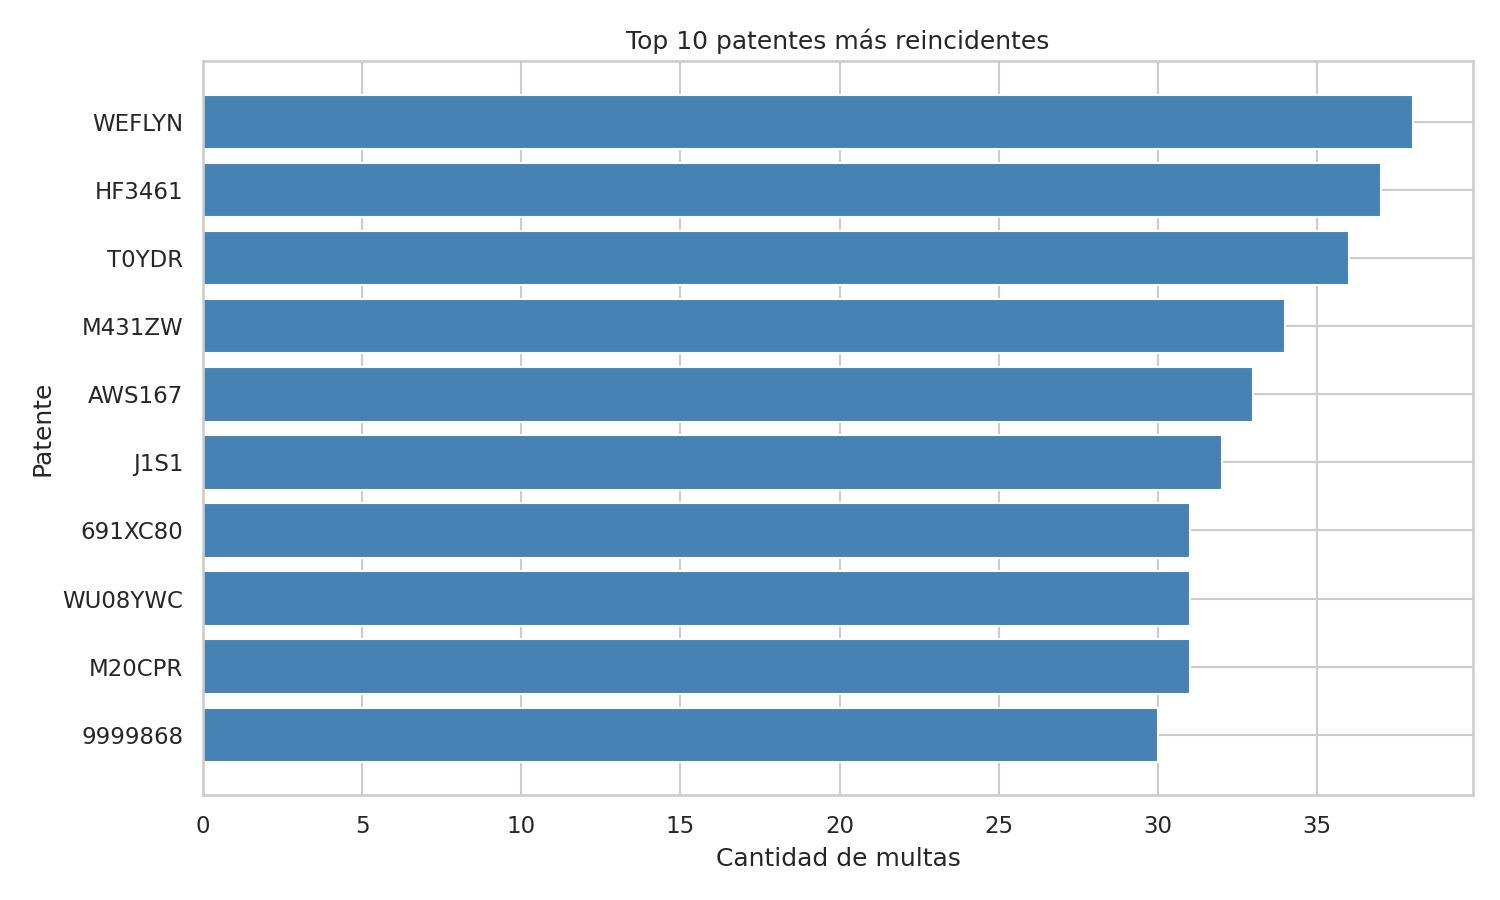
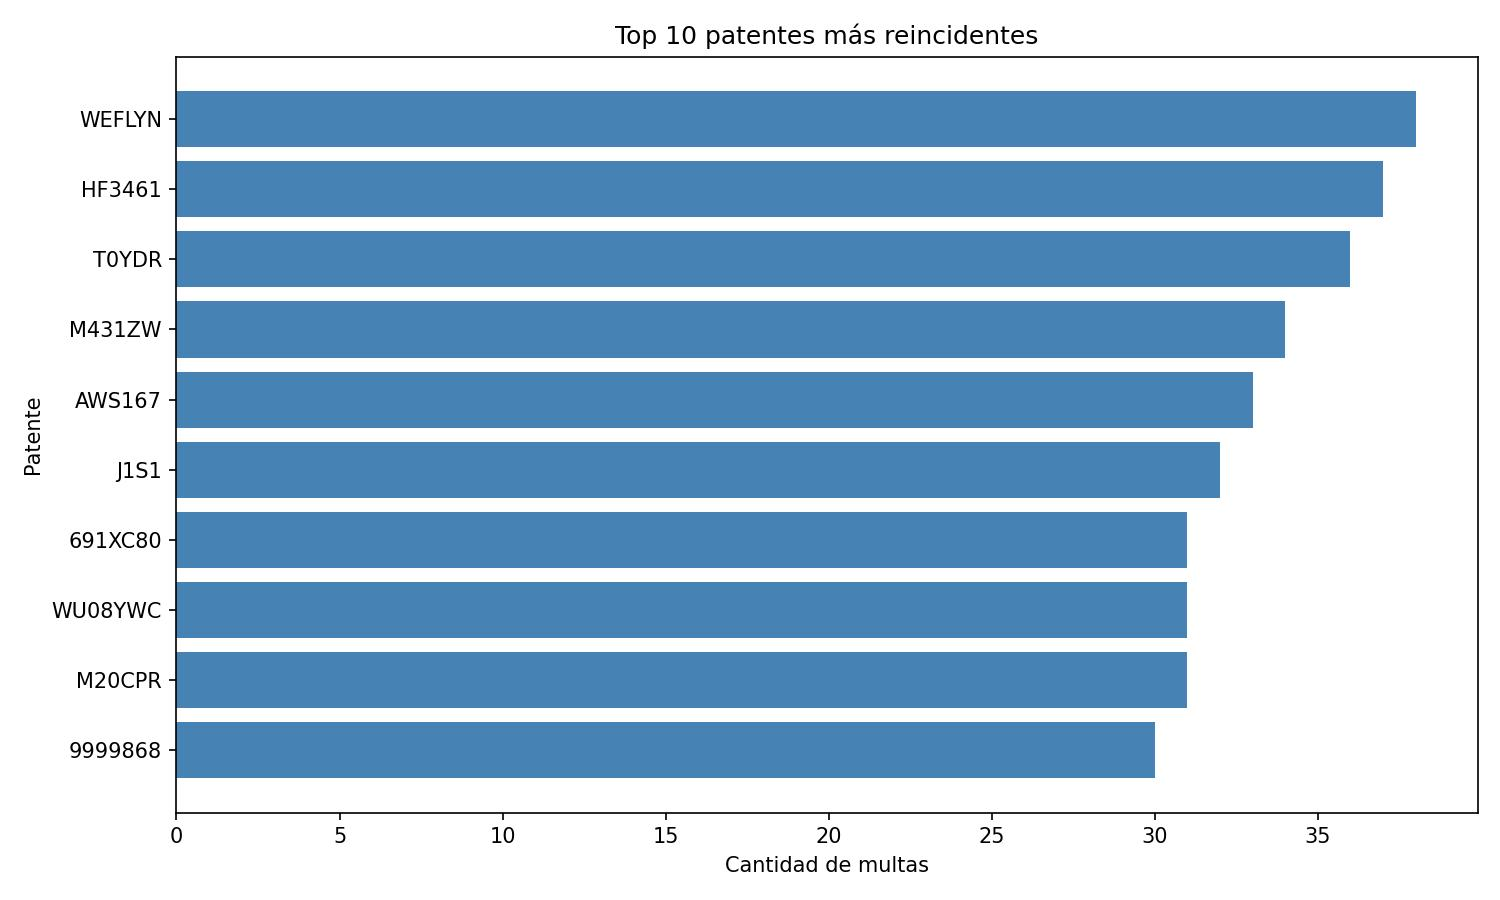
feat(ej05): gráficos de análisis de infracciones

diff --git a/CHANGELOG.md b/CHANGELOG.md
@@ -33,3 +33,11 @@
 - Método exceso_promedio: exceso medio como % sobre velocidad máxima.
 - Método exceso_real_promedio: exceso medio en km/h.
 - Método multas_por_ubicacion: conteo de multas por ubicación.
+
+## [Sprint 1] - Punto 05
+### Added
+- fines.jpg: top 10 patentes más reincidentes (barras horizontal).
+- hours.jpg: porcentaje de infracciones por hora (torta).
+- months.jpg: infracciones por mes ordenadas (barras horizontal).
+- hour.jpg: exceso de velocidad en registros con hora 00:00 (líneas).
+- date.jpg: exceso de velocidad en registros con fecha 1932-01-01 (líneas).
